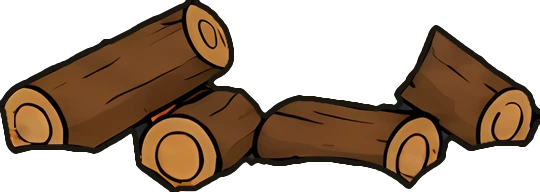
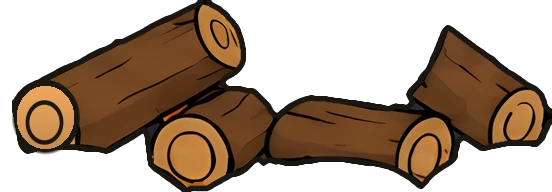
Logs: in-fire ends burn into the flames; round far-left end
A second log image (a-logs-lit) is drawn while the fire burns: the far end
of the top-left log and the broken tip of the right log go from bark to
the fire's orange and cream and only the last stretch turns see-through,
so there's no tan end face or black edge inside the fire. Once the fire is
out the whole logs show again. The far-left log end, which the old cut-out
had squashed against the image edge, is redrawn as a full round end (the
image gains 6px on the left; LOGS_AT moves to match).

Claude-Session: https://claude.ai/code/session_01LEzX9WUx8sWcSwwRyLeaEz

diff --git a/web/src/components/scene.ts b/web/src/components/scene.ts
@@ -33,10 +33,10 @@ export interface SceneView { fireX: number; fireTop: number; width: number; heig
 
 // The art is painted at twice the size it is drawn (AR), so it stays sharp on big and high-density screens.
 const AR = 2, aw = (i: { width: number }) => i.width / AR, ah = (i: { height: number }) => i.height / AR;
-const W = 1942, H = 809, ZOOM = 1.1, FIRE = { x: 958, y: 605 }, PIT = { x: 958, y: 634 }, LOGS_AT = { x: 825, y: 584 };
+const W = 1942, H = 809, ZOOM = 1.1, FIRE = { x: 958, y: 605 }, PIT = { x: 958, y: 634 }, LOGS_AT = { x: 819, y: 584 };
 const BASE = import.meta.env.BASE_URL;
 const THUNDER = ["clap1", "sr1", "sr2", "sr3", "sr4", "dry1", "dry2", "dry3", "dry4"];
-const IMAGES = ["a-land.webp", "a-water.webp", "a-logs.webp", "a-tufts.webp", "a-canopy.webp", ...PAINT.clouds.map((c) => c.f),
+const IMAGES = ["a-land.webp", "a-water.webp", "a-logs.webp", "a-logs-lit.webp", "a-tufts.webp", "a-canopy.webp", ...PAINT.clouds.map((c) => c.f),
   ...["bend", "backA", "backB", "frontC", "frontD"].map((n) => `deer-${n}.webp`),
   ...["body", "ears", "backNear", "backFar", "frontNear", "frontFar"].map((n) => `rabbit-${n}.webp`),
   ...["body", "tail", "backNear", "backFar", "frontNear", "frontFar"].map((n) => `squirrel-${n}.webp`),
@@ -268,7 +268,7 @@ export function createScene(canvas: HTMLCanvasElement, onView?: (v: SceneView) =
     }
   }
   // the logs glow warm where they meet the fire: an orange tint, masked to the logs, strongest at the pit's middle
-  let tl: HTMLCanvasElement | null = null, hcv: HTMLCanvasElement | null = null, lc: HTMLCanvasElement | null = null;
+  let tl: HTMLCanvasElement | null = null, hcv: HTMLCanvasElement | null = null, lc: HTMLCanvasElement | null = null, lb: HTMLCanvasElement | null = null;
   function tintedLogs(img: HTMLImageElement) {
     if (tl) return tl; tl = mk(img.width, img.height); const x = tl.getContext("2d")!;
     x.drawImage(img, 0, 0); x.globalCompositeOperation = "source-atop"; x.fillStyle = "rgb(236,96,28)"; x.fillRect(0, 0, img.width, img.height); return tl;
@@ -280,10 +280,15 @@ export function createScene(canvas: HTMLCanvasElement, onView?: (v: SceneView) =
       if (dk < 0.6) { ctx.save(); ctx.globalAlpha = 0.28 * (1 - dk / 0.6); ctx.drawImage(glc, 558, -226); ctx.restore(); }
     }
     heat += ((fs > 0.01 ? 0.35 + 0.65 * Math.min(1, fs) : 0) - heat) * Math.min(1, dt * (fs > 0.01 ? 2 : 0.12)); // logs keep glowing a while after it dies
-    const img = assets["a-logs.webp"];
-    if (img) { // built on their own small canvas so the glow and the fading tip stay on the logs
-      lc ??= mk(img.width, img.height); const L = lc.getContext("2d")!;
-      L.globalCompositeOperation = "source-over"; L.globalAlpha = 1; L.clearRect(0, 0, lc.width, lc.height); L.drawImage(img, 0, 0);
+    const img = assets["a-logs.webp"], litImg = assets["a-logs-lit.webp"];
+    if (img) { // built on their own canvas so the glow stays on the logs. While the fire burns, the ends that sit in the
+      // flames melt into them (a-logs-lit); once it's out they're whole logs again.
+      lc ??= mk(img.width, img.height); lb ??= mk(img.width, img.height);
+      const B = lb.getContext("2d")!, L = lc.getContext("2d")!, lit = litImg ? Math.min(1, fs * 1.6) : 0;
+      B.globalAlpha = 1; B.globalCompositeOperation = "source-over"; B.clearRect(0, 0, lb.width, lb.height);
+      if (lit > 0) B.drawImage(litImg, 0, 0);
+      if (lit < 1) { B.globalAlpha = 1 - lit; B.drawImage(img, 0, 0); B.globalAlpha = 1; }
+      L.globalAlpha = 1; L.globalCompositeOperation = "source-over"; L.clearRect(0, 0, lc.width, lc.height); L.drawImage(lb, 0, 0);
       if (heat > 0.02) {
         hcv ??= mk(img.width, img.height); const x = hcv.getContext("2d")!;
         x.globalCompositeOperation = "source-over"; x.clearRect(0, 0, hcv.width, hcv.height); x.drawImage(tintedLogs(img), 0, 0);
@@ -292,13 +297,8 @@ export function createScene(canvas: HTMLCanvasElement, onView?: (v: SceneView) =
         x.globalCompositeOperation = "destination-in"; x.fillStyle = g; x.fillRect(0, 0, hcv.width, hcv.height);
         L.globalAlpha = Math.min(1, heat * (0.8 + 0.2 * vnoise(t * 1.3 + 5))); L.drawImage(hcv, 0, 0);
         L.globalCompositeOperation = "lighter"; L.globalAlpha = 0.25 * heat * flick; L.drawImage(hcv, 0, 0);
-        L.globalCompositeOperation = "source-over"; L.globalAlpha = 1;
-      }
-      const lit = Math.min(1, fs * 1.6);
-      if (lit > 0.01) { // the broken end of the right-hand log sits in the flames: it burns into their colour (plain wood again when the fire is out)
-        L.save(); L.scale(AR, AR); L.beginPath(); L.moveTo(194, 4); L.lineTo(242, 4); L.lineTo(242, 38); L.lineTo(214, 54); L.lineTo(194, 52); L.closePath(); L.clip();
-        const f = L.createLinearGradient(203, 25, 230, 41); f.addColorStop(0, `rgba(255,236,190,${lit})`); f.addColorStop(0.45, `rgba(255,170,70,${0.75 * lit})`); f.addColorStop(1, "rgba(255,120,40,0)");
-        L.globalCompositeOperation = "source-atop"; L.fillStyle = f; L.fillRect(190, 0, 60, 60); L.restore();
+        L.globalCompositeOperation = "destination-in"; L.globalAlpha = 1; L.drawImage(lb, 0, 0); // the glow never shows where a log has melted away
+        L.globalCompositeOperation = "source-over";
       }
       ctx.drawImage(lc, LOGS_AT.x, LOGS_AT.y, aw(img), ah(img));
     }
